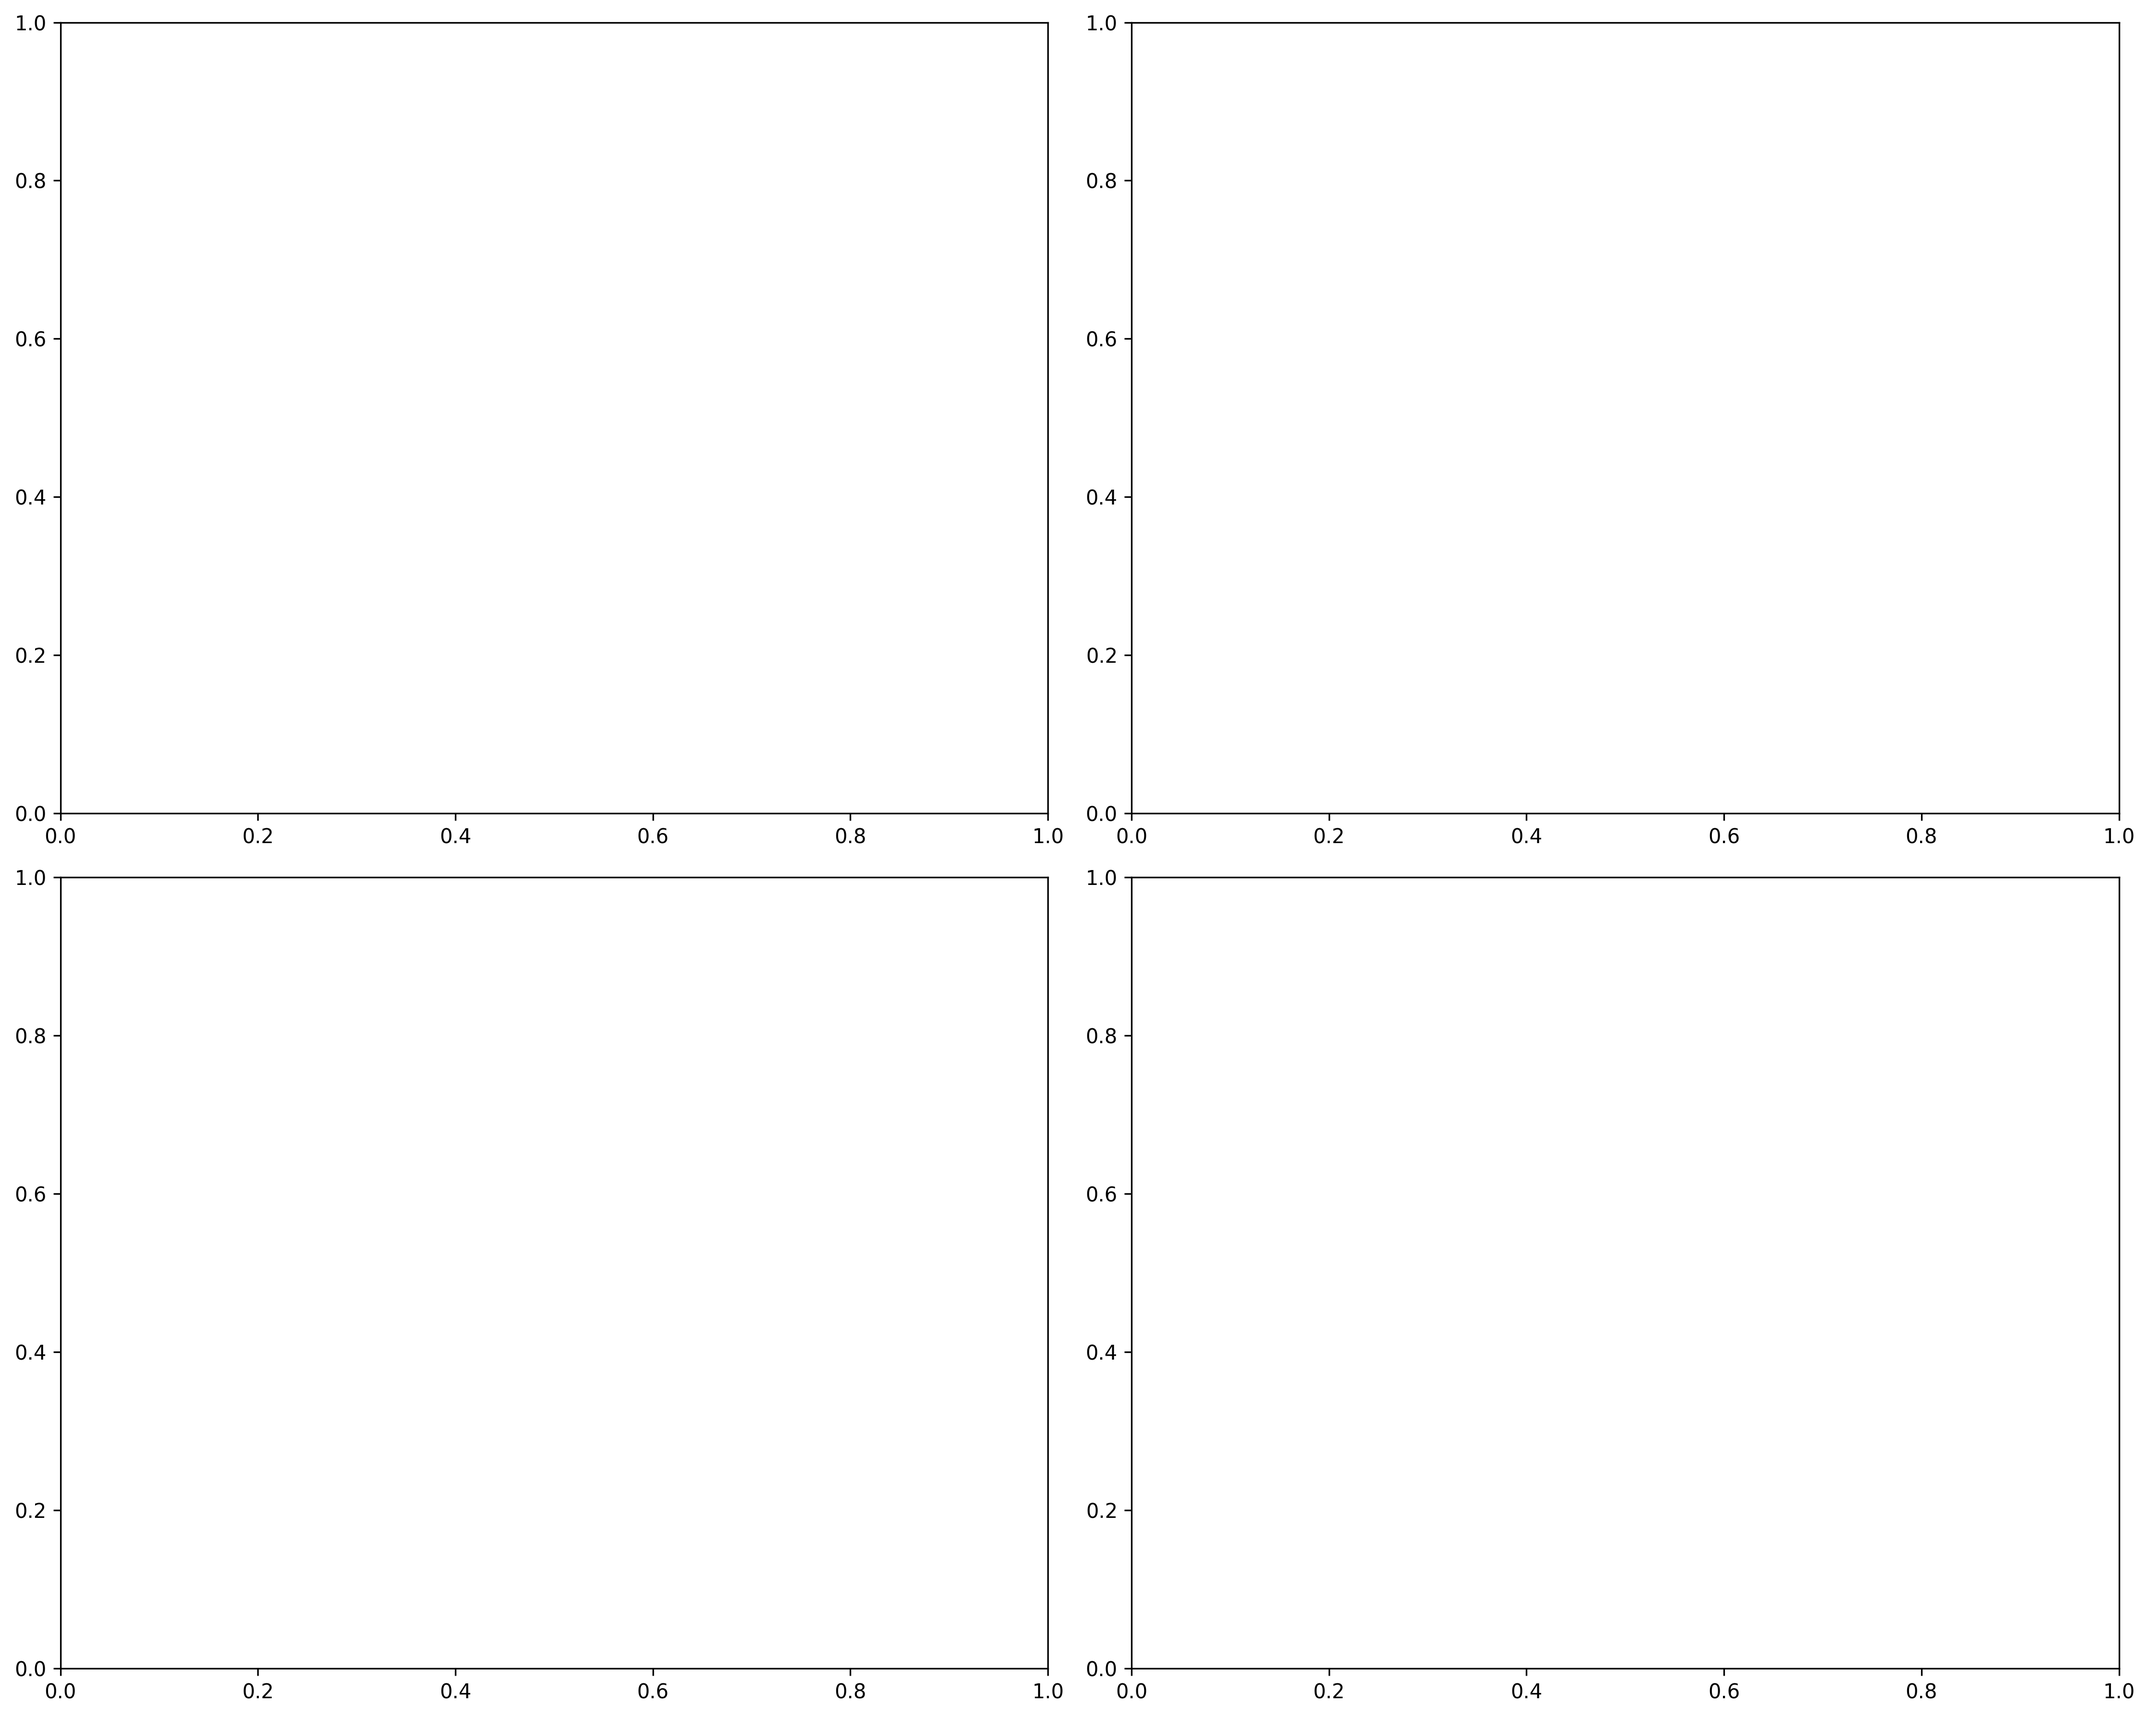
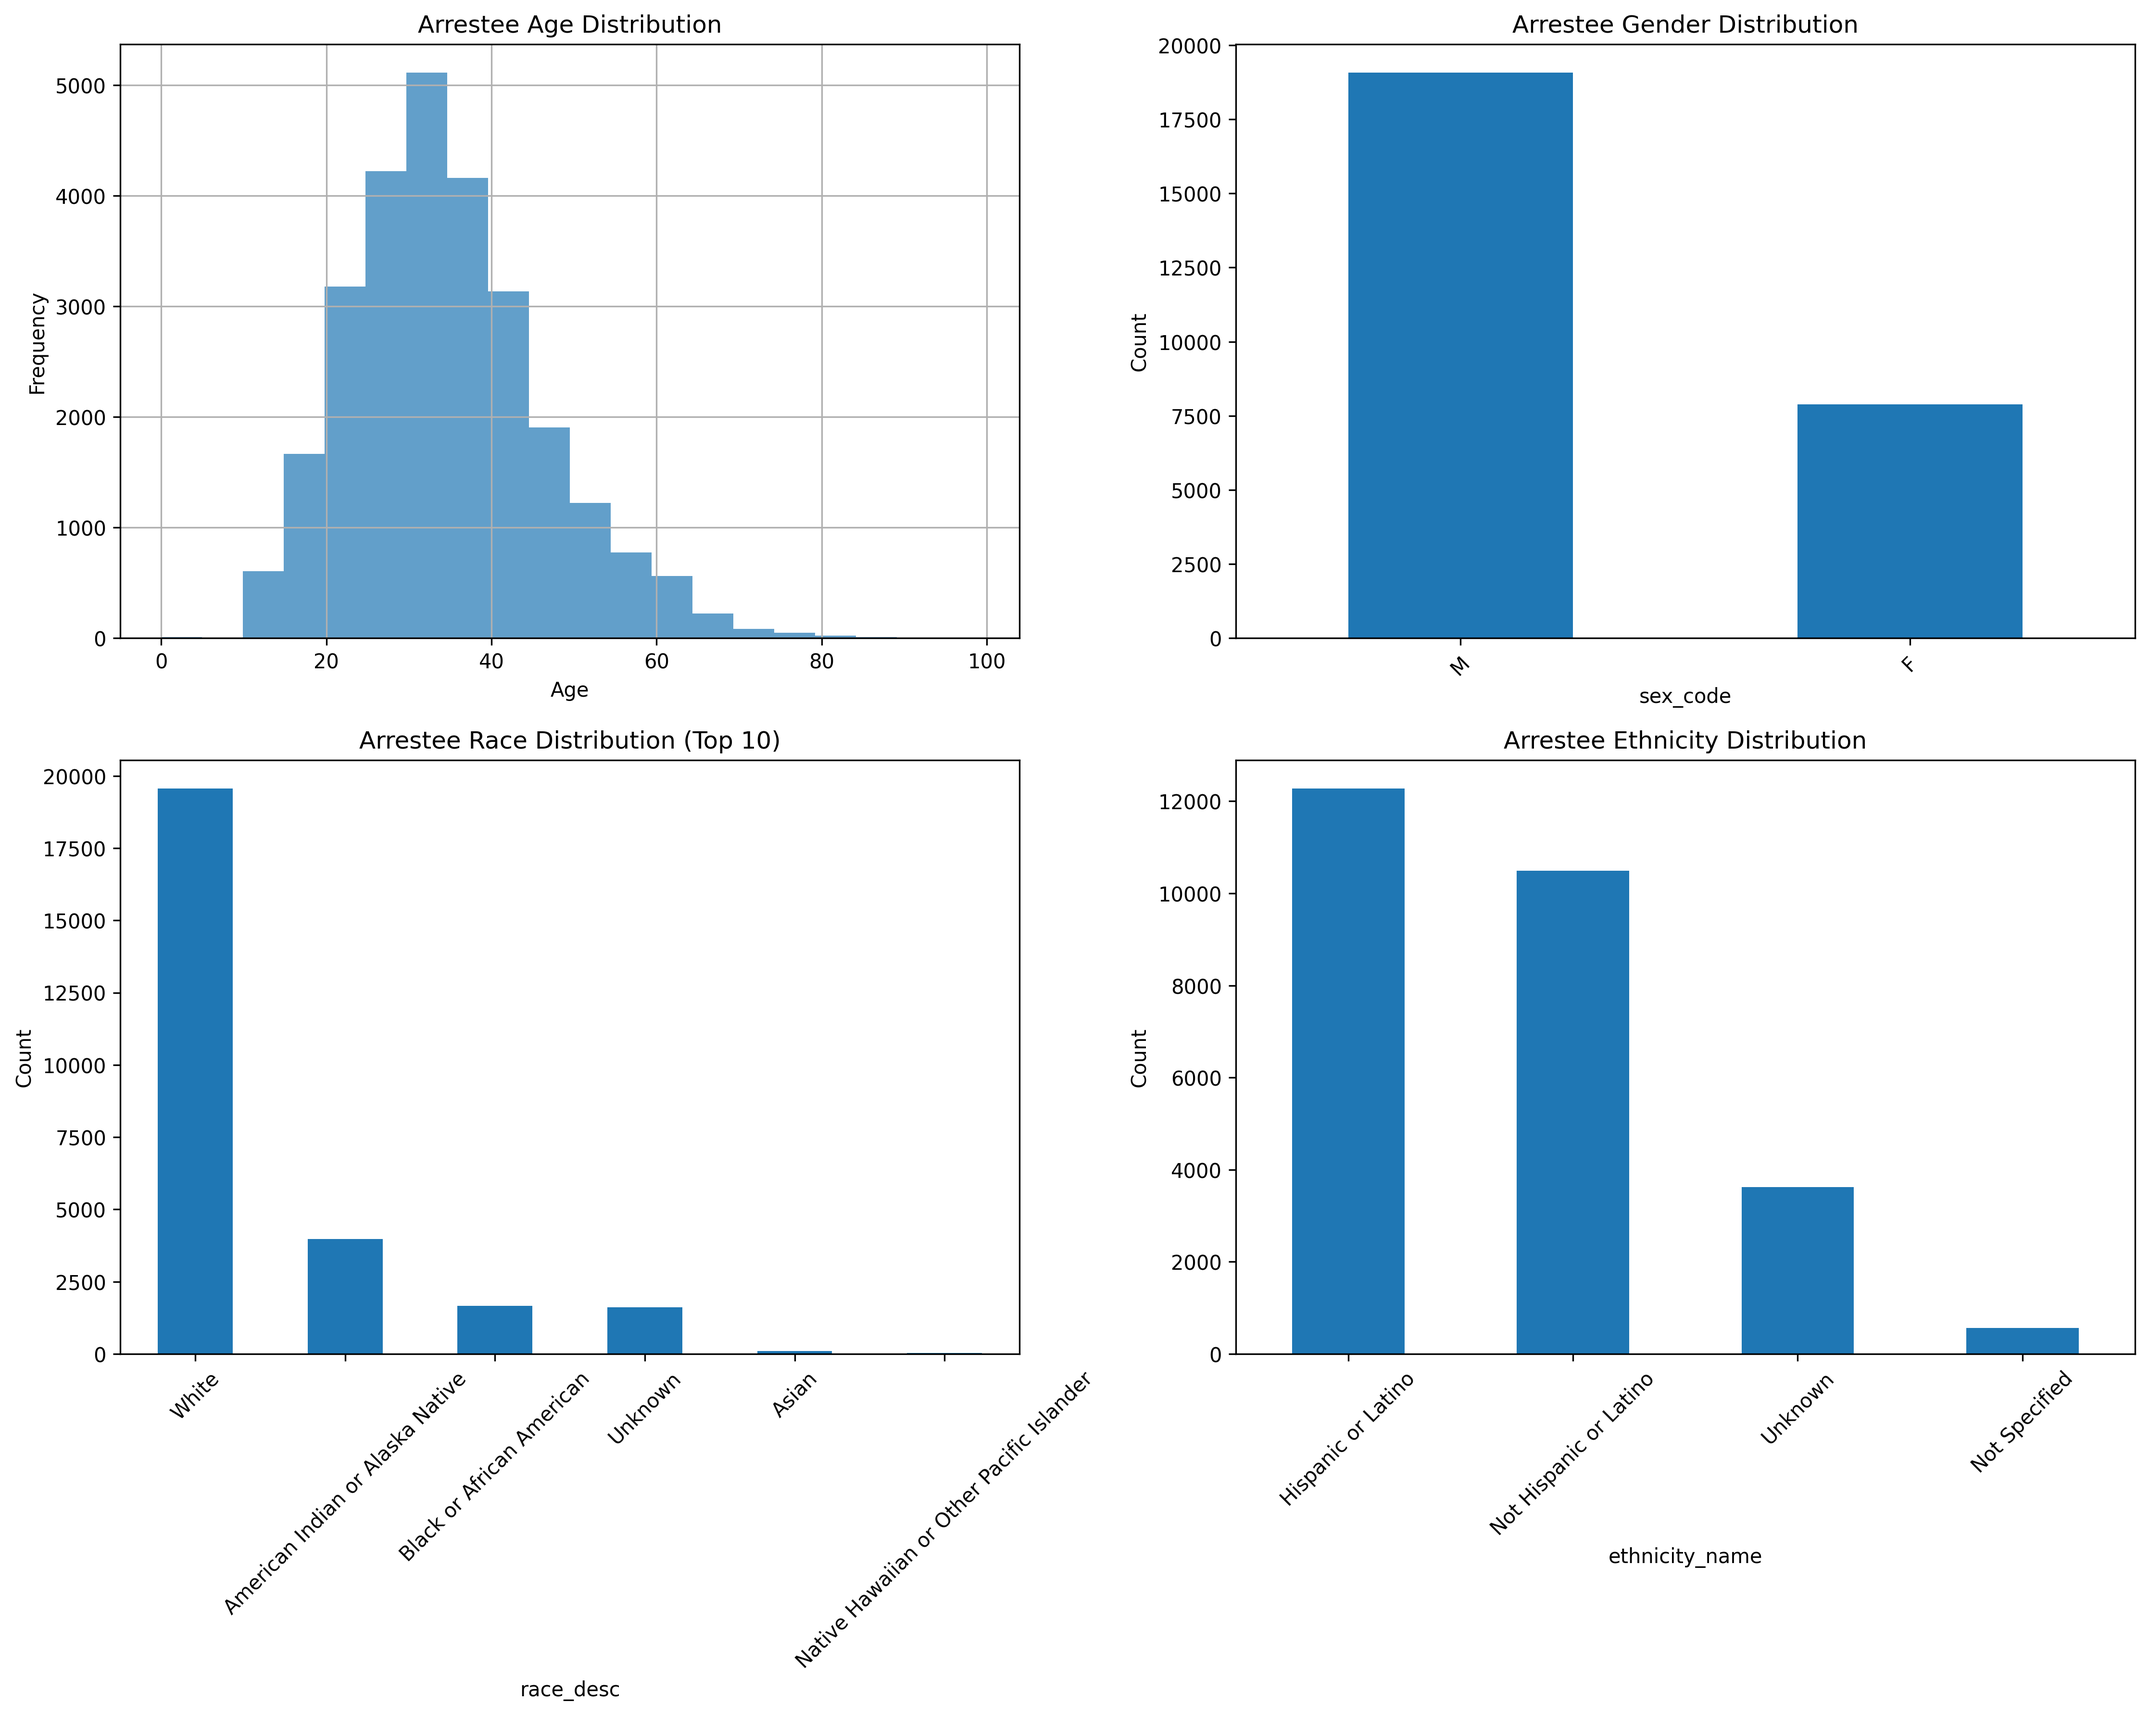
Fix Task 2 data quality assessment graphs - Updated column names to match actual dataset and regenerated demographic visualizations with proper data

diff --git a/Task2_Privacy/task2_privacy_analysis.py b/Task2_Privacy/task2_privacy_analysis.py
@@ -37,10 +37,9 @@ def analyze_demographic_data_usage(incidents_df):
     
     # Identify demographic variables in the dataset
     demographic_cols = [
-        'offender_age_num', 'offender_sex_code', 'offender_race_desc', 
-        'offender_ethnicity_name', 'offender_resident_code',
-        'victim_age_num', 'victim_sex_code', 'victim_race_desc', 
-        'victim_ethnicity_name'
+        'avg_arrestee_age', 'sex_code', 'race_desc', 
+        'ethnicity_name', 'hc_code',
+        'offense_category_name', 'crime_against', 'weapon_name'
     ]
     
     available_demographics = [col for col in demographic_cols if col in incidents_df.columns]
@@ -66,33 +65,33 @@ def create_demographic_visualizations(incidents_df):
     fig, axes = plt.subplots(2, 2, figsize=(15, 12))
     
     # 1. Age distribution
-    if 'offender_age_num' in incidents_df.columns:
-        incidents_df['offender_age_num'].hist(bins=20, ax=axes[0, 0], alpha=0.7)
-        axes[0, 0].set_title('Offender Age Distribution')
+    if 'avg_arrestee_age' in incidents_df.columns:
+        incidents_df['avg_arrestee_age'].hist(bins=20, ax=axes[0, 0], alpha=0.7)
+        axes[0, 0].set_title('Arrestee Age Distribution')
         axes[0, 0].set_xlabel('Age')
         axes[0, 0].set_ylabel('Frequency')
     
     # 2. Gender distribution
-    if 'offender_sex_code' in incidents_df.columns:
-        gender_counts = incidents_df['offender_sex_code'].value_counts()
+    if 'sex_code' in incidents_df.columns:
+        gender_counts = incidents_df['sex_code'].value_counts()
         gender_counts.plot(kind='bar', ax=axes[0, 1])
-        axes[0, 1].set_title('Offender Gender Distribution')
+        axes[0, 1].set_title('Arrestee Gender Distribution')
         axes[0, 1].set_ylabel('Count')
         axes[0, 1].tick_params(axis='x', rotation=45)
     
     # 3. Race distribution
-    if 'offender_race_desc' in incidents_df.columns:
-        race_counts = incidents_df['offender_race_desc'].value_counts().head(10)
+    if 'race_desc' in incidents_df.columns:
+        race_counts = incidents_df['race_desc'].value_counts().head(10)
         race_counts.plot(kind='bar', ax=axes[1, 0])
-        axes[1, 0].set_title('Offender Race Distribution (Top 10)')
+        axes[1, 0].set_title('Arrestee Race Distribution (Top 10)')
         axes[1, 0].set_ylabel('Count')
         axes[1, 0].tick_params(axis='x', rotation=45)
     
     # 4. Ethnicity distribution
-    if 'offender_ethnicity_name' in incidents_df.columns:
-        ethnicity_counts = incidents_df['offender_ethnicity_name'].value_counts()
+    if 'ethnicity_name' in incidents_df.columns:
+        ethnicity_counts = incidents_df['ethnicity_name'].value_counts()
         ethnicity_counts.plot(kind='bar', ax=axes[1, 1])
-        axes[1, 1].set_title('Offender Ethnicity Distribution')
+        axes[1, 1].set_title('Arrestee Ethnicity Distribution')
         axes[1, 1].set_ylabel('Count')
         axes[1, 1].tick_params(axis='x', rotation=45)
     
@@ -112,23 +111,23 @@ def analyze_bias_patterns(incidents_df):
     bias_analysis = {}
     
     # Gender bias analysis
-    if 'offender_sex_code' in incidents_df.columns:
-        gender_arrest_rate = incidents_df.groupby('offender_sex_code')['MULTIPLE_ARRESTS'].mean()
+    if 'sex_code' in incidents_df.columns:
+        gender_arrest_rate = incidents_df.groupby('sex_code')['MULTIPLE_ARRESTS'].mean()
         bias_analysis['gender'] = gender_arrest_rate
         print(f"\nMultiple arrests rate by gender:")
         print(gender_arrest_rate)
     
     # Race bias analysis
-    if 'offender_race_desc' in incidents_df.columns:
-        race_arrest_rate = incidents_df.groupby('offender_race_desc')['MULTIPLE_ARRESTS'].mean().sort_values(ascending=False)
+    if 'race_desc' in incidents_df.columns:
+        race_arrest_rate = incidents_df.groupby('race_desc')['MULTIPLE_ARRESTS'].mean().sort_values(ascending=False)
         bias_analysis['race'] = race_arrest_rate
         print(f"\nMultiple arrests rate by race (top 10):")
         print(race_arrest_rate.head(10))
     
     # Age bias analysis
-    if 'offender_age_num' in incidents_df.columns:
+    if 'avg_arrestee_age' in incidents_df.columns:
         # Create age groups
-        incidents_df['age_group'] = pd.cut(incidents_df['offender_age_num'], 
+        incidents_df['age_group'] = pd.cut(incidents_df['avg_arrestee_age'], 
                                          bins=[0, 18, 25, 35, 50, 100], 
                                          labels=['Under 18', '18-25', '26-35', '36-50', 'Over 50'])
         age_arrest_rate = incidents_df.groupby('age_group')['MULTIPLE_ARRESTS'].mean()
